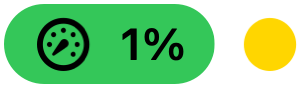
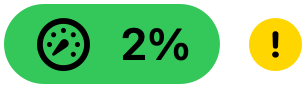
fix(menubar): keep the outage badge's glyph visible
The badge used one palette colour, which SF Symbols applies to every
layer, so the "!" / "×" vanished into a solid dot. Glyph and shape now
get separate colours (dark on yellow/orange, white on red); the
single-layer maintenance wrench stays blue. Builder moved to
MenuBarPillRenderer so it can be pixel-tested.

diff --git a/CCUsageStats/CCUsageStatsTests/OutageIconTests.swift b/CCUsageStats/CCUsageStatsTests/OutageIconTests.swift
@@ -1,0 +1,62 @@
+import XCTest
+import AppKit
+@testable import CCUsageStats
+
+final class OutageIconTests: XCTestCase {
+    /// Draws the icon at 4x and returns the colour at its centre, where the
+    /// glyph ("!", "×", …) sits on top of the filled shape.
+    private func centre(of image: NSImage) -> NSColor {
+        let scale: CGFloat = 4
+        let rep = NSBitmapImageRep(
+            bitmapDataPlanes: nil, pixelsWide: Int(image.size.width * scale), pixelsHigh: Int(image.size.height * scale),
+            bitsPerSample: 8, samplesPerPixel: 4, hasAlpha: true, isPlanar: false,
+            colorSpaceName: .deviceRGB, bytesPerRow: 0, bitsPerPixel: 0)!
+        rep.size = image.size
+        NSGraphicsContext.saveGraphicsState()
+        NSGraphicsContext.current = NSGraphicsContext(bitmapImageRep: rep)
+        image.draw(in: NSRect(origin: .zero, size: image.size))
+        NSGraphicsContext.restoreGraphicsState()
+        return rep.colorAt(x: rep.pixelsWide / 2, y: rep.pixelsHigh / 2)!
+    }
+
+    private func distance(_ a: NSColor, _ b: NSColor) -> CGFloat {
+        let a = a.usingColorSpace(.deviceRGB)!, b = b.usingColorSpace(.deviceRGB)!
+        return abs(a.redComponent - b.redComponent) + abs(a.greenComponent - b.greenComponent)
+            + abs(a.blueComponent - b.blueComponent)
+    }
+
+    func testGlyphContrastsWithTheFill() throws {
+        for indicator in [StatusReport.Indicator.minor, .major, .critical] {
+            let icon = try XCTUnwrap(MenuBarPillRenderer.outageIcon(for: indicator, staleAlpha: 1))
+            let fill = MenuBarPillRenderer.outageColor(for: indicator)
+            XCTAssertGreaterThan(distance(centre(of: icon), fill), 0.6,
+                                 "\(indicator): the glyph must not vanish into the fill")
+        }
+    }
+
+    /// The wrench has no separate glyph layer: its body takes the first
+    /// palette colour, so a white glyph colour would erase it on a light
+    /// menubar. No opaque pixel may be near-white.
+    func testMaintenanceWrenchIsNotWhite() throws {
+        let icon = try XCTUnwrap(MenuBarPillRenderer.outageIcon(for: .maintenance, staleAlpha: 1))
+        let rep = NSBitmapImageRep(
+            bitmapDataPlanes: nil, pixelsWide: Int(icon.size.width * 4), pixelsHigh: Int(icon.size.height * 4),
+            bitsPerSample: 8, samplesPerPixel: 4, hasAlpha: true, isPlanar: false,
+            colorSpaceName: .deviceRGB, bytesPerRow: 0, bitsPerPixel: 0)!
+        rep.size = icon.size
+        NSGraphicsContext.saveGraphicsState()
+        NSGraphicsContext.current = NSGraphicsContext(bitmapImageRep: rep)
+        icon.draw(in: NSRect(origin: .zero, size: icon.size))
+        NSGraphicsContext.restoreGraphicsState()
+        var whitish = 0
+        for x in 0..<rep.pixelsWide { for y in 0..<rep.pixelsHigh {
+            let c = rep.colorAt(x: x, y: y)!
+            if c.alphaComponent > 0.9, c.redComponent > 0.9, c.greenComponent > 0.9, c.blueComponent > 0.9 { whitish += 1 }
+        } }
+        XCTAssertEqual(whitish, 0)
+    }
+
+    func testNoIconWhenOperational() {
+        XCTAssertNil(MenuBarPillRenderer.outageIcon(for: .none, staleAlpha: 1))
+    }
+}

diff --git a/CCUsageStats/CCUsageStats/Tray/MenuBarPillRenderer.swift b/CCUsageStats/CCUsageStats/Tray/MenuBarPillRenderer.swift
@@ -149,4 +149,53 @@ enum MenuBarPillRenderer {
         let font = NSFont.systemFont(ofSize: NSFont.systemFontSize(for: .small), weight: .semibold)
         return NSAttributedString(string: s, attributes: [.foregroundColor: color, .font: font])
     }
+
+    // MARK: - Outage badge
+
+    /// The badge drawn right of the pill while status.claude.com reports a
+    /// problem; nil when operational. The severity colour stays distinct
+    /// from the gauge gradient so "7d is high" isn't read as "Anthropic is
+    /// degraded".
+    static func outageIcon(for indicator: StatusReport.Indicator, staleAlpha: CGFloat) -> NSImage? {
+        guard indicator != .none else { return nil }
+        // Two palette colours: the glyph layer ("!", "×") first, then the
+        // shape. With one colour both layers took it and the glyph vanished
+        // into a solid dot.
+        let fill = outageColor(for: indicator).withAlphaComponent(staleAlpha)
+        let glyph = outageGlyphColor(for: indicator).withAlphaComponent(staleAlpha)
+        let cfg = NSImage.SymbolConfiguration(pointSize: 13, weight: .semibold)
+            .applying(NSImage.SymbolConfiguration(paletteColors: [glyph, fill]))
+        return NSImage(systemSymbolName: outageSymbol(for: indicator), accessibilityDescription: nil)?
+            .withSymbolConfiguration(cfg)
+    }
+
+    static func outageSymbol(for indicator: StatusReport.Indicator) -> String {
+        switch indicator {
+        case .minor:       return "exclamationmark.circle.fill"
+        case .major:       return "exclamationmark.triangle.fill"
+        case .critical:    return "xmark.octagon.fill"
+        case .maintenance: return "wrench.adjustable.fill"
+        case .none:        return "checkmark.circle.fill"
+        }
+    }
+
+    /// Dark on the light fills, white on the dark ones. The wrench has no
+    /// separate glyph layer — its body takes this colour — so it stays blue.
+    static func outageGlyphColor(for indicator: StatusReport.Indicator) -> NSColor {
+        switch indicator {
+        case .minor, .major: return .black
+        case .critical, .none: return .white
+        case .maintenance: return outageColor(for: .maintenance)
+        }
+    }
+
+    static func outageColor(for indicator: StatusReport.Indicator) -> NSColor {
+        switch indicator {
+        case .minor:       return .systemYellow
+        case .major:       return .systemOrange
+        case .critical:    return .systemRed
+        case .maintenance: return .systemBlue
+        case .none:        return .secondaryLabelColor
+        }
+    }
 }

diff --git a/CCUsageStats/CCUsageStats/Tray/MenuBarContent.swift b/CCUsageStats/CCUsageStats/Tray/MenuBarContent.swift
@@ -79,16 +79,9 @@ struct MenuBarLabel: View {
         )
     }
 
-    /// Builds the optional outage badge (drawn outside any pill). The
-    /// severity color stays distinct from the gauge gradient so users
-    /// don't confuse "7d is high" with "Anthropic is degraded".
     private func buildOutageIcon(staleAlpha: CGFloat) -> NSImage? {
-        guard let r = vm.statusReport, r.indicator != .none else { return nil }
-        let color = NSColor(outageColor(for: r.indicator))
-        let cfg = NSImage.SymbolConfiguration(pointSize: 13, weight: .semibold)
-            .applying(NSImage.SymbolConfiguration(paletteColors: [color]))
-        return NSImage(systemSymbolName: outageSymbol(for: r.indicator), accessibilityDescription: nil)?
-            .withSymbolConfiguration(cfg)
+        guard let r = vm.statusReport else { return nil }
+        return MenuBarPillRenderer.outageIcon(for: r.indicator, staleAlpha: staleAlpha)
     }
 
     /// Single pill (or bare triangle for invalid token). Matches the
@@ -146,26 +139,6 @@ struct MenuBarLabel: View {
         }
         composite.isTemplate = false
         return composite
-    }
-
-    private func outageSymbol(for ind: StatusReport.Indicator) -> String {
-        switch ind {
-        case .minor:       return "exclamationmark.circle.fill"
-        case .major:       return "exclamationmark.triangle.fill"
-        case .critical:    return "xmark.octagon.fill"
-        case .maintenance: return "wrench.adjustable.fill"
-        case .none:        return "checkmark.circle.fill"
-        }
-    }
-
-    private func outageColor(for ind: StatusReport.Indicator) -> Color {
-        switch ind {
-        case .minor:       return .yellow
-        case .major:       return .orange
-        case .critical:    return .red
-        case .maintenance: return .blue
-        case .none:        return .secondary
-        }
     }
 
     private func glyph() -> String {

diff --git a/README.md b/README.md
@@ -28,7 +28,7 @@ work between the two quotas. See [Codex usage](#codex-usage).
 &nbsp;&nbsp;&nbsp;&nbsp;
 <picture>
   <source media="(prefers-color-scheme: dark)" srcset="docs/screenshots/menubar-outage-dark.png">
-  <img alt="menubar outage indicator" src="docs/screenshots/menubar-outage-light.png" width="113">
+  <img alt="menubar outage indicator" src="docs/screenshots/menubar-outage-light.png" width="115">
 </picture>
 &nbsp;&nbsp;&nbsp;&nbsp;
 <picture>
